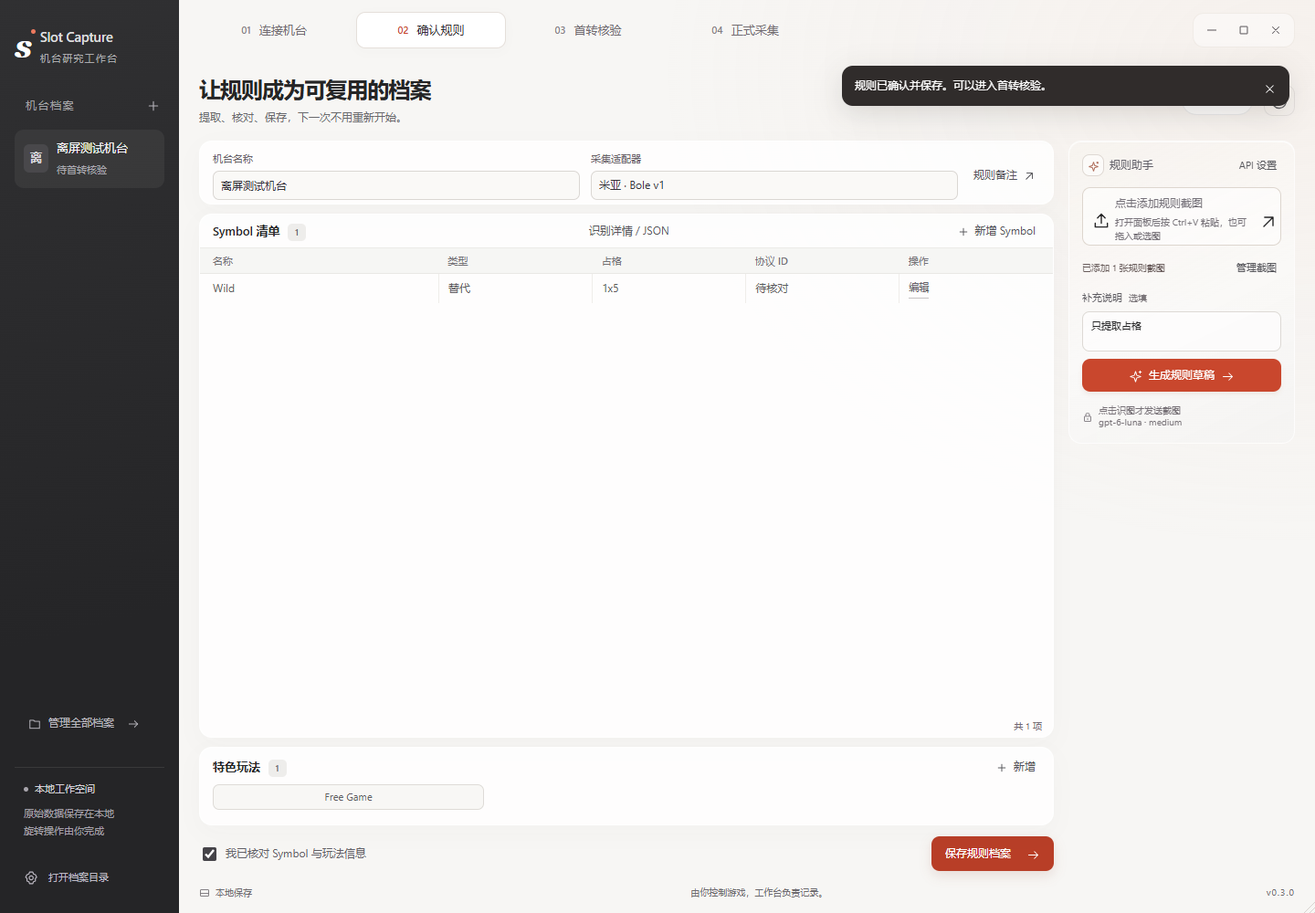
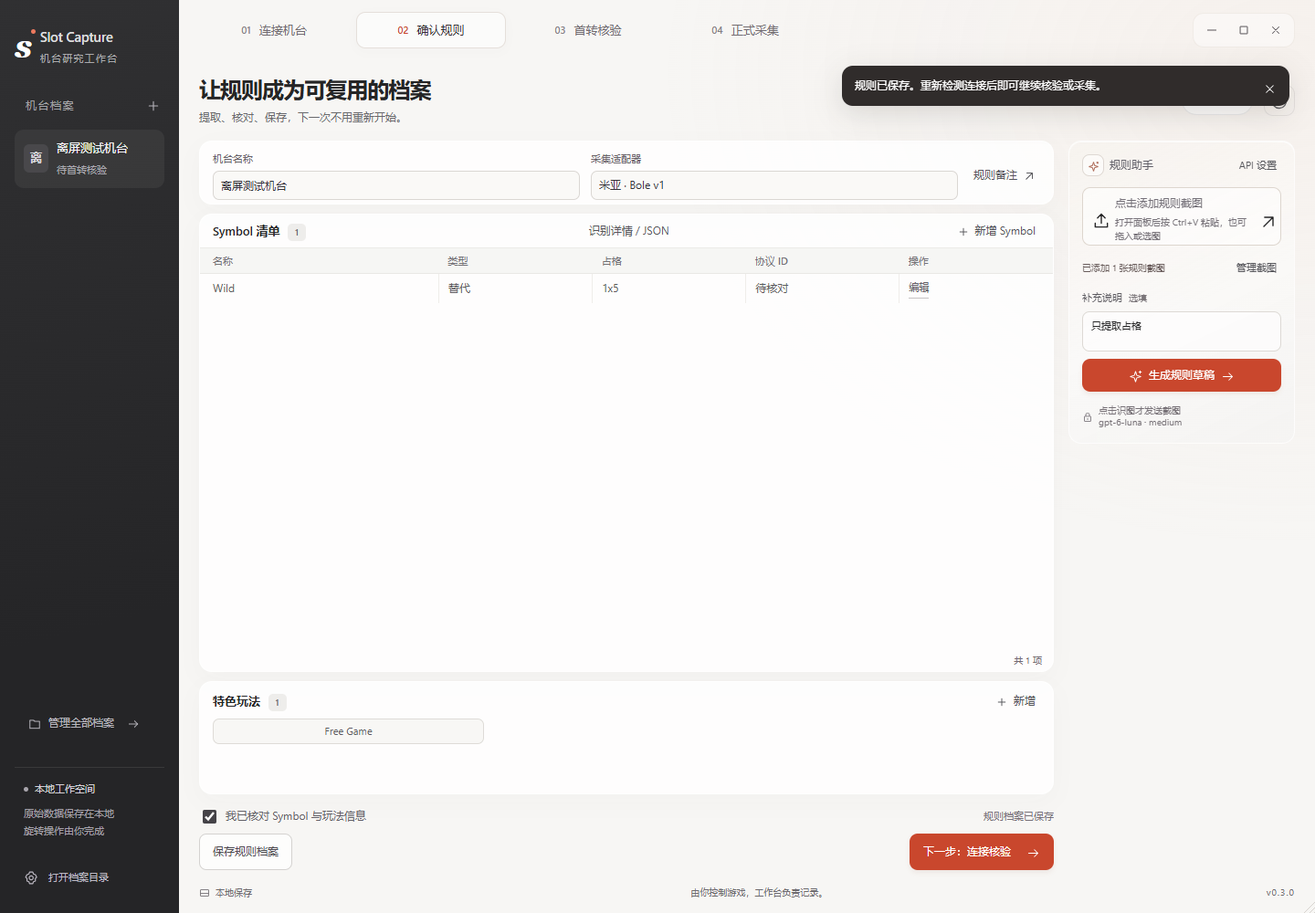
Persist rule image drafts and add clear save and next actions

diff --git a/src/slotcapture/webui/desktop.js b/src/slotcapture/webui/desktop.js
@@ -57,7 +57,7 @@ function blank(){return {id:crypto.randomUUID().replaceAll('-','').slice(0,16),n
 function modified(invalidate=true){state.dirty=true;if(invalidate){state.profile.first_spin_verified=false;$('#rules-confirmed').checked=false;}gates();}
 function gates(){
   const locked=state.busy||state.active;
-  for(const id of ['new-machine','machine','detect','manual-connect','save-rules','verify-start','capture-start','history','undo-delete','ai-generate','add-symbol','add-feature','profile-name','profile-adapter','profile-notes','rules-confirmed','spin-count','open-import','import-main','clear-images','use-images','pick-files','paste-images'])$('#'+id).disabled=locked;
+  for(const id of ['new-machine','machine','detect','manual-connect','save-rules','rules-next','verify-start','capture-start','history','undo-delete','ai-generate','add-symbol','add-feature','profile-name','profile-adapter','profile-notes','rules-confirmed','spin-count','open-import','import-main','clear-images','use-images','pick-files','paste-images'])$('#'+id).disabled=locked;
   $$('.machine-item,.table-action,.feature-list button,.archive-delete').forEach(b=>b.disabled=locked);
   $$('[id^="cap-"]').forEach(b=>b.readOnly=locked);
   $('#undo-delete').disabled=locked||!state.deleted;
@@ -73,6 +73,12 @@ function gates(){
   $('#capture-start').disabled=locked||!state.ready||state.dirty||!p?.first_spin_verified;
   $('#verify-start').disabled=locked||!state.ready||state.dirty||!p?.rules_confirmed||!p?.symbols?.length;
   $('#verified-shortcut').hidden=!p?.first_spin_verified||state.dirty;
+  const rulesNext=$('#rules-next');
+  rulesNext.disabled=locked||!$('#rules-confirmed').checked||!p?.symbols?.length;
+  rulesNext.querySelector('span').textContent=state.dirty?'保存并下一步':!state.ready?'下一步：连接核验':p?.first_spin_verified?'下一步：正式采集':'下一步：首转核验';
+  $('#rule-save-state').textContent=state.dirty?(p?._draft_pending?'截图草稿已自动保存，规则待确认保存':'有未保存修改'):'规则档案已保存';
+  if(!p?.symbols?.length)$('#rule-save-state').textContent=p?._draft_pending?'截图草稿已自动保存，待核对规则':!state.dirty&&state.machines.some(m=>m.id===p?.id)?'档案已保存，补齐规则后继续':'可先保存截图，补齐规则后继续';
+  $('#capture-storage').textContent=state.run?'原始记录已自动保存':'采集时自动保存';
   for(const id of ['vision-settings-open','vision-settings-save','vision-refresh-models','vision-base-url','vision-api-key','vision-selection','vision-effort'])$('#'+id).disabled=locked;
   $('#vision-model').disabled=locked||$('#vision-selection').value==='automatic';
   const next=$('#connection-next');let target='rules',label='下一步：确认规则';
@@ -120,10 +126,10 @@ function renderLibrary(){
   for(const [,p] of visible){
     const b=node('button',undefined,'machine-item'+(p.id===state.profile?.id?' selected':''));b.dataset.id=p.id;
     b.append(node('span',(p.name||'S').slice(0,1),'machine-square'));
-    const title=node('span',p.name);title.append(node('small',p.first_spin_verified?'首转已通过':'待首转核验'));b.append(title);
+    const title=node('span',p.name||'未命名机台');title.append(node('small',p._draft_pending?'有未确认草稿':p.first_spin_verified?'首转已通过':'待首转核验'));b.append(title);
     b.onclick=()=>chooseMachine(p.id);$('#machine-library').append(b);
   }
-  for(const p of state.machines){const option=node('option',p.name);option.value=p.id;$('#machine').append(option);}
+  for(const p of state.machines){const option=node('option',p.name||'未命名机台');option.value=p.id;$('#machine').append(option);}
   const option=node('option','新建机台档案…');option.value='';$('#machine').append(option);
   $('#machine').value=state.machines.some(p=>p.id===state.profile?.id)?state.profile.id:'';
   if(!state.machines.length)$('#machine-library').append(node('p','还没有档案，先新建一个。','library-empty'));
@@ -131,7 +137,7 @@ function renderLibrary(){
   renderArchive();gates();
 }
 async function loadProfile(p){
-  state.profile=structuredClone(p||blank());state.dirty=false;state.images=[];
+  state.profile=structuredClone(p||blank());state.dirty=!!state.profile._draft_pending;state.images=[];
   state.pages.symbols=0;state.pages.features=0;
   $('#profile-name').value=state.profile.name;$('#profile-adapter').value=state.profile.adapter;
   $('#profile-notes').value=state.profile.notes||'';$('#rules-confirmed').checked=!!state.profile.rules_confirmed;
@@ -151,7 +157,7 @@ function renderRules(){
   if(!symbols.length){const tr=node('tr'),td=node('td','暂无 Symbol。可以手动新增，也可以导入截图识别。','empty-row');td.colSpan=5;tr.append(td);$('#symbol-rows').append(tr);}
   $('#feature-list').replaceChildren();
   $('#feature-count').textContent=state.profile.features?.length||0;
-  for(const [i,f] of pageSlice('features',state.profile.features||[],3,'#feature-pager',renderRules)){const b=node('button',f.name);b.title=f.name+'\n'+(f.notes||'点击编辑');b.onclick=()=>editRow('features',i);$('#feature-list').append(b);}
+  for(const [i,f] of pageSlice('features',state.profile.features||[],6,'#feature-pager',renderRules)){const b=node('button',f.name);b.title=f.name+'\n'+(f.notes||'点击编辑');b.onclick=()=>editRow('features',i);$('#feature-list').append(b);}
   if(!state.profile.features?.length)$('#feature-list').append(node('p','尚未录入特色玩法','muted'));
   gates();
 }
@@ -181,7 +187,7 @@ function choose(title,description,items){
   let selected=null;for(const item of items){const b=node('button',item.label,'choice-button');b.onclick=()=>{selected=item.value;d.close();};$('#choice-list').append(b);}d.showModal();
   return new Promise(resolve=>d.addEventListener('close',()=>resolve(selected),{once:true}));
 }
-async function discard(){return !state.dirty||await confirmAction('当前档案有未保存修改。放弃这些修改并继续？');}
+async function discard(){return !state.dirty||await confirmAction(state.profile?._draft_pending?'截图草稿会保留；其他未保存修改可能丢失。继续切换？':'当前档案有未保存修改。放弃这些修改并继续？');}
 async function chooseMachine(id){
   if(state.active||state.busy){renderLibrary();return;}
   if(!await discard()){renderLibrary();return;}
@@ -305,7 +311,7 @@ async function startSession(purpose){
 }
 function renderImages(){
   const grid=$('#image-grid');grid.replaceChildren();
-  for(const item of state.images){const tile=node('div',undefined,'image-tile'),image=node('img');image.src=item.preview;image.alt=item.name;const remove=node('button','×');remove.setAttribute('aria-label','移除 '+item.name);remove.onclick=()=>{if(state.busy||state.active)return;state.images=state.images.filter(i=>i.path!==item.path);state.dirty=true;renderImages();};tile.append(image,node('span',item.name),remove);grid.append(tile);}
+  for(const item of state.images){const tile=node('div',undefined,'image-tile'),image=node('img');image.src=item.preview;image.alt=item.name;const remove=node('button','×');remove.setAttribute('aria-label','移除 '+item.name);remove.onclick=()=>task('保存截图草稿…',async()=>{state.images=state.images.filter(i=>i.path!==item.path);state.dirty=true;await persistImageDraft();message('截图草稿已保存。');});tile.append(image,node('span',item.name),remove);grid.append(tile);}
   $('#attachment-summary').hidden=!state.images.length;$('#attachment-summary').textContent=`已添加 ${state.images.length} 张规则截图`;
   $('#import-hint').textContent=`已添加 ${state.images.length} / 12 张。单张不超过 20 MiB，点击识图才发送。`;gates();
 }
@@ -313,7 +319,13 @@ async function mergeImages(paths){
   const previews=await api('preview_images',paths);const combined=[...state.images];
   for(const image of previews)if(!combined.some(i=>i.path===image.path||i.sha256&&i.sha256===image.sha256))combined.push(image);
   if(combined.length>12)throw Error('最多添加 12 张截图，请先移除多余图片。');
-  state.images=combined;state.dirty=true;renderImages();
+  state.images=combined;state.dirty=true;await persistImageDraft();
+}
+async function persistImageDraft(){
+  const p=await api('save_machine_draft',draft());
+  state.profile=p;state.dirty=true;
+  state.images=p.screenshots?.length?await api('preview_images',p.screenshots):[];
+  upsert(p);renderImages();
 }
 async function addFiles(list){
   const files=[...list];if(!files.length)return;
@@ -322,7 +334,7 @@ async function addFiles(list){
     const encoded=[];
     for(const f of files){if(f.size>20*1024*1024)throw Error('单张截图不能超过 20 MiB。');if(!['image/png','image/jpeg','image/webp'].includes(f.type))throw Error('仅支持 PNG、JPG、WebP 图片。');
       const base64=await new Promise((resolve,reject)=>{const r=new FileReader();r.onload=()=>resolve(String(r.result).split(',')[1]);r.onerror=()=>reject(Error('无法读取图片'));r.readAsDataURL(f);});encoded.push({name:f.name||'image.png',base64});}
-    const result=await api('import_images',encoded);await mergeImages(result.paths);message('截图已缓存本地，尚未发送给模型。');
+    const result=await api('import_images',encoded);await mergeImages(result.paths);message('截图草稿已自动保存，退出后可恢复；尚未发送给模型。');
   });
 }
 function openImport(){if(state.busy||state.active)return;$('#image-dialog').showModal();$('#drop-zone').focus();}
@@ -333,7 +345,7 @@ document.addEventListener('paste',e=>{if(!$('#image-dialog').open||state.busy||s
 for(const id of ['drop-zone']){const el=$('#'+id);el.ondragover=e=>{e.preventDefault();el.classList.add('drag-over');};el.ondragleave=()=>el.classList.remove('drag-over');el.ondrop=e=>{e.preventDefault();el.classList.remove('drag-over');if(state.active||state.busy)return;addFiles(e.dataTransfer.files);};}
 // Prevent WebView navigation if files are accidentally dropped outside the import panel.
 document.addEventListener('dragover',e=>e.preventDefault());document.addEventListener('drop',e=>e.preventDefault());
-$('#clear-images').onclick=()=>{state.images=[];state.dirty=true;renderImages();};$('#use-images').onclick=()=>$('#image-dialog').close();
+$('#clear-images').onclick=()=>task('保存截图草稿…',async()=>{state.images=[];state.dirty=true;await persistImageDraft();message('截图草稿列表已清空并保存。');});$('#use-images').onclick=()=>$('#image-dialog').close();
 $('#ai-generate').onclick=async()=>{
   if((state.profile.symbols.length||state.profile.features.length)&&!await confirmAction('生成的草稿会替换当前 Symbol 和玩法清单（保存前不会覆盖本地档案）。继续？'))return;
   await task('正在读取规则截图，识别可能需要一点时间…',async()=>{
@@ -350,10 +362,12 @@ $('#ai-generate').onclick=async()=>{
     const {name,symbols,features,notes,...details}=p;
     state.profile.rule_details=details;
     if(p.name)$('#profile-name').value=p.name;if(p.notes)$('#profile-notes').value=p.notes;
-    modified();renderRules();changeView('rules');message('规则草稿已填入。请核对名称、占格和玩法，再勾选确认并保存。');
+    modified();await persistImageDraft();renderRules();changeView('rules');message('识别草稿和截图已自动保存。请核对名称、占格和玩法，再勾选确认并保存正式规则。');
   });
 };
-$('#save-rules').onclick=()=>task('保存规则档案…',async()=>{const p=await api('save_machine',draft());upsert(p);await loadProfile(p);message(p.rules_confirmed?'规则已确认并保存。可以进入首转核验。':'草稿已保存，确认规则后再进入首转。');});
+async function saveCurrentRules(){const data=draft();data.name=data.name||'未命名机台';const p=await api('save_machine',data);upsert(p);await loadProfile(p);return p;}
+$('#save-rules').onclick=()=>task('保存规则档案…',async()=>{const p=await saveCurrentRules();message(p.rules_confirmed?'规则已确认并保存，可以继续下一步。':'规则及截图已保存，核对后勾选确认再继续。');});
+$('#rules-next').onclick=()=>task('保存规则并准备下一步…',async()=>{const p=await saveCurrentRules();const target=!state.ready?'connect':p.first_spin_verified?'capture':'verify';changeView(target);message(target==='connect'?'规则已保存。重新检测连接后即可继续核验或采集。':target==='verify'?'规则已保存。点击开始首转监听，再在游戏内手动转一次。':'规则已保存，可以设置本批次付费次数。');});
 $('#detect').onclick=()=>detect();$('#manual-connect').onclick=()=>task('按修正信息核验心跳…',async()=>{const p=draft();if(p.adapter!=='mia-bole-v1')throw Error('请先选择与当前机台匹配的采集适配器。');await connectWith(p.capture);});
 $('#verify-start').onclick=()=>startSession('first_spin');$('#capture-start').onclick=()=>startSession('sampling');
 $('#stop-capture').onclick=async()=>{if(!await confirmAction('请先在游戏内停止新增付费旋转。\n工作台只停止监听并等待奖励链，不会替你停止游戏。确认请求收尾？'))return;await task('请求本任务收尾…',async()=>{await api('stop');message('已请求收尾，请完成剩余奖励，不要新增付费旋转。','action');});};

diff --git a/src/slotcapture/webui/index.html b/src/slotcapture/webui/index.html
@@ -59,7 +59,7 @@
           <div class="card profile-editor rules-profile"><label>机台名称<input id="profile-name" placeholder="输入机台名称" maxlength="120"></label><label>采集适配器<select id="profile-adapter" title="适配器决定协议和结算校验规则，不能通过改名套用其他机台。"><option value="unadapted">待适配 · 仅建立档案</option><option value="mia-bole-v1">米亚 · Bole v1</option></select></label><button class="text-button" id="edit-notes">规则备注<i data-icon="arrow-up-right"></i></button></div>
           <div class="card table-card"><div class="section-title"><div><h3>Symbol 清单 <span class="count-badge" id="symbol-count">0</span></h3></div><button class="text-button" id="rule-json">识别详情 / JSON</button><button class="text-button" id="add-symbol"><i data-icon="plus"></i>新增 Symbol</button></div><div class="table-scroll"><table><thead><tr><th>名称</th><th>类型</th><th>占格</th><th>协议 ID</th><th class="last-column">操作</th></tr></thead><tbody id="symbol-rows"></tbody></table></div><div id="symbol-pager" class="pager"></div></div>
           <div class="card feature-card"><div class="section-title"><h3>特色玩法 <span id="feature-count" class="count-badge">0</span></h3><button class="text-button" id="add-feature"><i data-icon="plus"></i>新增</button></div><div class="feature-list" id="feature-list"></div><div id="feature-pager" class="pager"></div></div>
-          <div class="save-bar"><label class="checkbox"><input type="checkbox" id="rules-confirmed">我已核对 Symbol 与玩法信息</label><button class="primary-button" id="save-rules">保存规则档案<i data-icon="arrow-right"></i></button></div>
+          <div class="save-bar"><div class="rule-confirmation"><label class="checkbox"><input type="checkbox" id="rules-confirmed">我已核对 Symbol 与玩法信息</label><span id="rule-save-state">可先保存截图，补齐规则后继续</span></div><div class="rule-actions"><button class="secondary-button" id="save-rules">保存规则档案</button><button class="primary-button" id="rules-next" disabled><span>下一步：首转核验</span><i data-icon="arrow-right"></i></button></div></div>
         </section>
 
         <section class="view" id="view-verify" aria-labelledby="verify-heading">
@@ -70,7 +70,7 @@
           <div class="card capture-setup"><div><span class="eyebrow">新建批次 / CAPTURE</span><h2 id="capture-heading">让每一转都有记录</h2></div><div class="batch-form"><label for="spin-count">付费旋转目标</label><div class="batch-input"><input id="spin-count" type="number" min="1" max="1000000" value="100"><span>次</span></div><button class="primary-button" id="capture-start"><i data-icon="play"></i>开始采集</button></div><p class="setup-hint" id="sampling-gate">完成连接、规则确认与首转核验后，即可开始。</p></div>
           <div class="metric-grid"><div class="card metric"><span>付费旋转 / 目标</span><strong class="metric-accent"><span id="paid-count">0</span><small> / <span id="target-label">100</span></small></strong><div class="progress-track"><span id="paid-progress"></span></div></div><div class="card metric"><span>本批次 Bet</span><strong id="bet-value">—</strong><small>从首个有效结果自动读取</small></div><div class="card metric"><span>免费旋转</span><strong><span id="free-count">0</span><small> 次</small></strong><small>不计入付费目标</small></div></div>
           <div class="card chart-card"><div class="section-title"><div><h3>本批次返奖</h3><p id="return-caption">尾链完成前为暂计值，不能当长期 RTP。</p></div><span class="subtle-pill" id="run-state">尚未开始</span></div><div class="return-total" id="return-total">—</div><div class="audit-strip"><span>付费下注 <b id="wager-total">—</b></span><span>待结算奖励 <b id="pending-total">—</b></span><span>审计问题 <b id="issue-total">—</b></span></div><p class="setup-hint">逐盘账本、奖励链与原始结果保存在本地批次目录。</p></div>
-          <div class="card events-card"><div class="section-title"><h3>采集事件</h3><div class="event-actions"><button class="text-button" id="show-events">全部事件</button><button class="text-button" id="export">导出记录<i data-icon="arrow-up-right"></i></button></div></div><div id="events"><div class="event-empty">尚未开始采集</div></div><div class="event-controls"><button class="text-button" id="records">打开本地记录</button><button class="secondary-button" id="stop-capture" disabled>停止监听并收尾</button></div></div>
+          <div class="card events-card"><div class="section-title"><h3>采集事件 <span id="capture-storage">采集时自动保存</span></h3><div class="event-actions"><button class="text-button" id="show-events">全部事件</button><button class="text-button" id="export" title="原始记录已自动保存；此处只额外复制分析用文件">另存分析包<i data-icon="arrow-up-right"></i></button></div></div><div id="events"><div class="event-empty">尚未开始采集</div></div><div class="event-controls"><button class="text-button" id="records">打开自动保存目录</button><button class="secondary-button" id="stop-capture" disabled>停止监听并收尾</button></div></div>
         </section>
       </main>
 

diff --git a/src/slotcapture/webui/layout.css b/src/slotcapture/webui/layout.css
@@ -79,3 +79,13 @@ body.desktop-app{height:100dvh;min-height:0;min-width:960px;overflow:hidden}
 .desktop-app .drop-mini{display:flex;flex-direction:row;text-align:left;justify-content:flex-start;gap:9px;height:64px;padding:9px 10px;border:1px solid #ddd6ce;background:#ffffff8c;border-radius:9px}
 .desktop-app .drop-mini>i{width:16px;height:16px;flex:none}.desktop-app .drop-mini>span{min-width:0}.desktop-app .drop-mini strong{display:block;font-size:12px;line-height:1.6}.desktop-app .drop-mini small{display:block;margin-top:4px;font-size:10px;line-height:1.5;white-space:normal}.desktop-app .drop-mini>i:last-child{margin-left:auto;width:13px;height:13px}
 .desktop-app #vision-settings-open{margin-left:auto;font-size:11px;white-space:nowrap}.desktop-app .api-fields{margin:0;padding:0}.desktop-app #vision-model-label{display:block;max-width:200px;overflow:hidden;text-overflow:ellipsis;white-space:nowrap}
+
+/* Six common features fit without a page turn; save and next are always in the footer. */
+.desktop-app #view-rules{grid-template-rows:70px minmax(0,1fr) 124px 76px}
+.desktop-app .feature-card{grid-template-rows:22px 64px;gap:8px;padding-block:10px}
+.desktop-app .feature-list{grid-template-rows:repeat(2,28px);align-content:start}
+.desktop-app .save-bar{display:grid;grid-template-columns:minmax(0,1fr);grid-template-rows:22px 40px;gap:8px;align-content:center;align-items:stretch;justify-content:stretch}
+.rule-confirmation{display:flex;gap:12px;align-items:center;min-width:0}.rule-confirmation .checkbox{flex:none}.rule-confirmation #rule-save-state{margin-left:auto;overflow:hidden;text-overflow:ellipsis;white-space:nowrap;font-size:11px;color:#777078}
+.rule-actions{display:flex;justify-content:space-between;gap:12px}.desktop-app .rule-actions button{height:40px;min-height:40px}
+#capture-storage{font-size:10px;font-weight:400;color:#777078;margin-left:8px}
+@media(max-height:700px){.desktop-app #view-rules{grid-template-rows:64px minmax(0,1fr) 116px 72px}.desktop-app .feature-card{padding-block:6px}.rule-confirmation #rule-save-state{font-size:10px}}

diff --git a/src/slotcapture/desktop.py b/src/slotcapture/desktop.py
@@ -10,7 +10,7 @@ import threading
 from . import __version__
 from .common import read, write, digest, TERMINAL
 from .gui import invoke, event_summary
-from .workflow import default_store, connection_ready
+from .workflow import default_store, connection_ready, profile_path, archive_images
 
 
 def response(method):
@@ -43,6 +43,21 @@ class DesktopAPI:
         self._session.update(run=self._run,connection=self._connection,diagnostic=self._diagnostic)
         write(self._store/'desktop-session.json',self._session)
 
+    def _draft_path(self,identity):
+        profile_path(self._store,identity)
+        return self._store/'machine-drafts'/(identity+'.json')
+
+    def _with_draft(self,profile):
+        path=self._draft_path(profile['id'])
+        return dict(read(path),_draft_pending=True,first_spin_verified=False) if path.exists() else profile
+
+    def _library(self):
+        machines={p['id']:self._with_draft(p) for p in self._cli('machine-list')['machines']}
+        for path in (self._store/'machine-drafts').glob('*.json'):
+            if path.stem not in machines:
+                p=read(path);machines[path.stem]=self._with_draft(p)
+        return list(machines.values())
+
     def _idle(self):
         if self._run and (Path(self._run)/'plan.json').exists():
             s=self._invoke(['status','--run',self._run])
@@ -51,11 +66,13 @@ class DesktopAPI:
 
     def _save(self,profile):
         profile=dict(profile)
+        profile.pop('_draft_pending',None)
         profile.setdefault('id',uuid.uuid4().hex[:16])
         path=self._store/'drafts'/(uuid.uuid4().hex+'.json')
         path.parent.mkdir(exist_ok=True);write(path,profile)
         try:result=self._cli('machine-save','--input',str(path))
         finally:path.unlink(missing_ok=True)
+        self._draft_path(result['id']).unlink(missing_ok=True)
         self._session['selected_id']=result['id'];self._persist()
         return result
 
@@ -72,7 +89,7 @@ class DesktopAPI:
 
     @response
     def bootstrap(self):
-        machines=self._cli('machine-list')['machines']
+        machines=self._library()
         selected=next((p for p in machines if p['id']==self._session.get('selected_id')),machines[0] if machines else None)
         ready=bool(selected and self._connection and connection_ready(selected,self._connection))
         if not ready:self._connection=None
@@ -83,7 +100,10 @@ class DesktopAPI:
     @response
     def select_machine(self,identity):
         self._idle()
-        result=self._cli('machine-show','--id',identity) if identity else None
+        result=None
+        if identity:
+            draft=self._draft_path(identity)
+            result=self._with_draft(read(draft)) if draft.exists() else self._cli('machine-show','--id',identity)
         self._run=None;self._connection=None;self._session['selected_id']=identity;self._persist()
         return result
 
@@ -91,6 +111,22 @@ class DesktopAPI:
     def save_machine(self,profile):
         self._idle()
         return self._save(profile)
+
+    @response
+    def save_machine_draft(self,profile):
+        """Persist incomplete onboarding without changing approved rules or verification."""
+        self._idle()
+        p=dict(profile);identity=p.get('id')
+        path=self._draft_path(identity)
+        images=p.get('screenshots',[])
+        if not isinstance(images,list) or len(images)>12:raise ValueError('最多保存12张规则截图')
+        for image in images:
+            if not Path(image).resolve().is_relative_to(self._store):raise ValueError('请先导入截图到本地')
+        p['screenshots']=archive_images(self._store,identity,images) if images else []
+        p.pop('verification',None);p.pop('first_spin_verified',None);p.pop('_draft_pending',None)
+        path.parent.mkdir(parents=True,exist_ok=True);write(path,p)
+        self._session['selected_id']=identity;self._persist()
+        return dict(p,_draft_pending=True,first_spin_verified=False)
 
     @response
     def discover(self,profile,device=None,adb=None):
@@ -146,7 +182,15 @@ class DesktopAPI:
 
     @response
     def delete_machine(self,identity):
-        self._idle();result=self._cli('machine-delete','--id',identity)
+        self._idle();draft=self._draft_path(identity)
+        if not profile_path(self._store,identity).exists() and draft.exists():
+            p=read(draft);token=uuid.uuid4().hex
+            result=dict(id=identity,name=p.get('name') or '未命名机台',deleted=token,kind='draft',history_preserved=True)
+        else:result=self._cli('machine-delete','--id',identity)
+        if draft.exists():
+            saved=self._store/'trash'/'machine-drafts'/identity/(result['deleted']+'.json')
+            saved.parent.mkdir(parents=True,exist_ok=True);draft.rename(saved)
+            result['draft_archived_path']=str(saved)
         self._last_deleted=result
         if self._session.get('selected_id')==identity:
             self._session['selected_id']=None;self._connection=None;self._run=None;self._persist()
@@ -156,7 +200,14 @@ class DesktopAPI:
     def restore_machine(self):
         self._idle()
         if not self._last_deleted:raise ValueError('本次会话没有可撤销的删除')
-        p=self._cli('machine-restore','--id',self._last_deleted['id'],'--deleted',self._last_deleted['deleted'])
+        deleted=self._last_deleted
+        draft=self._draft_path(deleted['id'])
+        if draft.exists():raise ValueError('已有同ID草稿，不能覆盖恢复')
+        if deleted.get('kind')=='draft':p=read(deleted['draft_archived_path'])
+        else:p=self._cli('machine-restore','--id',deleted['id'],'--deleted',deleted['deleted'])
+        if deleted.get('draft_archived_path'):
+            draft.parent.mkdir(parents=True,exist_ok=True);Path(deleted['draft_archived_path']).rename(draft)
+            p=self._with_draft(p)
         self._last_deleted=None;self._run=None;self._connection=None;self._session['selected_id']=p['id'];self._persist()
         return p
 

diff --git a/design/check_desktop.py b/design/check_desktop.py
@@ -14,12 +14,13 @@ const m=window.__mock;
 const wrap=f=>async(...args)=>{try{return {ok:true,data:await f(...args)}}catch(e){return {ok:false,error:{message:e.message}}}};
 function call(name,args){m.calls.push({name,args:structuredClone(args)})}
 function profile(p){return {...structuredClone(p),first_spin_verified:!!p.first_spin_verified}}
-function save(p){p=profile(p);const i=m.machines.findIndex(x=>x.id===p.id);if(i<0)m.machines.push(p);else m.machines[i]=p;m.selected=p;return p}
+function save(p){p=profile(p);delete p._draft_pending;const i=m.machines.findIndex(x=>x.id===p.id);if(i<0)m.machines.push(p);else m.machines[i]=p;m.selected=p;return p}
 function start(p,purpose,paid){save(p);m.run='X:/test-only/'+purpose+'-'+m.calls.length;m.purpose=purpose;m.events=[];
  m.status={state:purpose==='connection'?'CHECKING_CONNECTION':'WAITING_FOR_SPIN',worker_alive:true,live:true,checked_utc:new Date().toISOString(),paid:0,free:0,target_paid:paid,expected_return:0,paid_wager:0,pending_rewards:0,issue_count:0};return {profile:p,run:m.run,purpose}}
 window.pywebview={api:{
  bootstrap:wrap(()=>({version:'0.3.0',machines:m.machines,selected:m.selected,connection_ready:m.ready,run:m.run})),
  save_machine:wrap(p=>{call('save_machine',[p]);if(!p.name)throw Error('请填写机台名称');return save(p)}),
+ save_machine_draft:wrap(p=>{call('save_machine_draft',[p]);return {...p,_draft_pending:true,first_spin_verified:false}}),
  select_machine:wrap(id=>{call('select_machine',[id]);m.ready=false;m.run=null;m.selected=m.machines.find(p=>p.id===id)||null;return m.selected}),
  discover:wrap((p,device,adb)=>{call('discover',[p,device,adb]);
    if(m.stage==='choose_device'&&!device)return {stage:'choose_device',message:'多个在线模拟器，请选择。',devices:[{model:'离屏测试设备',device:'test-5554',adb:'X:/mock/adb.exe'},{model:'另一测试设备',device:'test-5556',adb:'X:/mock/adb.exe'}]};
@@ -103,6 +104,8 @@ def main():
                 page.locator('#file-input').set_input_files(dict(name=filename,mimeType='image/png',buffer=tiny_png()))
                 page.wait_for_function('!state.busy && state.images.length===1')
             assert page.locator('.image-tile').count()==1
+            assert page.evaluate('__mock.calls.some(c=>c.name==="save_machine_draft")')
+            assert not page.evaluate('__mock.calls.some(c=>c.name==="recognize")')
             page.locator('#paste-images').click();page.wait_for_function('!state.busy')
             assert page.locator('.image-tile').count()==1
             page.screenshot(path=str(output/'desktop-import.png'),full_page=True,animations='disabled')
@@ -110,15 +113,20 @@ def main():
             page.locator('#ai-generate').click();page.locator('#confirm-yes').click();page.wait_for_function('__mock.calls.some(c=>c.name==="recognize") && !state.busy')
             assert page.evaluate('__mock.calls.filter(x=>x.name==="recognize").at(-1).args[1]')=='只提取占格'
             assert not page.locator('#rules-confirmed').is_checked()
+            assert page.locator('#rules-next').is_disabled()
             assert page.locator('#symbol-rows').inner_text().startswith('Wild')
             page.locator('#rule-json').click()
             assert 'payline_count' in page.locator('#text-body').inner_text()
             assert 'capture_checklist' in page.locator('#text-body').inner_text()
             page.locator('#text-dialog .icon-button').click()
-            page.locator('#rules-confirmed').check();page.locator('#save-rules').click();page.wait_for_function('!state.busy')
+            page.locator('#rules-confirmed').check();page.locator('#rules-next').click();page.wait_for_function('!state.busy')
             assert page.evaluate('state.profile.rule_details.base_game.payline_count')==40
+            assert page.locator('#view-connect').is_visible()
+            assert not page.evaluate('__mock.calls.some(c=>c.name==="start_session")')
+            page.locator('[data-view=rules]').click()
             page.screenshot(path=str(output/'desktop-rules.png'),full_page=True,animations='disabled')
             checks.append('images: dedup, explicit paste and recognition, notes forwarded, manual confirmation reset')
+            checks.append('rule footer: save and next stay visible; screenshots persist before OCR; confirmed next saves without starting capture')
             # Failure is not called online; choose only if multiple candidates actually exist.
             page.locator('[data-view=connect]').click();page.evaluate('__mock.stage="heartbeat_missing"')
             page.locator('#detect').click();page.wait_for_function('!state.busy')
@@ -183,6 +191,9 @@ def main():
             page.wait_for_function('__mock.calls.filter(c=>c.name==="window_command").length===4')
             assert not page.evaluate('__mock.calls.some(c=>c.name==="stop")')
             checks.append('window controls: explicit minimize/maximize/restore/close bridge; close never stops capture')
+            page.evaluate('state.profile.features=Array.from({length:6},(_,i)=>({name:"玩法 "+i}));changeView("rules")')
+            assert page.locator('#feature-list button').count()==6
+            assert page.locator('#feature-pager button').count()==0
             page.evaluate('''__mock.run=null;state.run=null;state.status=null;
                 state.machines=Array.from({length:25},(_,i)=>({...state.profile,id:'test-'+i,name:'离屏长档案测试 '+i}));
                 state.profile.symbols=Array.from({length:40},(_,i)=>({name:'Symbol '+i,role:'普通',size:'1x1'}));

diff --git a/tests/test_desktop.py b/tests/test_desktop.py
@@ -94,6 +94,33 @@ class DesktopTests(unittest.TestCase):
         self.assertFalse(self.api.import_images([dict(name='bad.png',base64='aaaa')])['ok'])
         self.assertFalse(self.api.preview_images([str(self.store.parent/'escape.png')])['ok'])
 
+    def test_unrecognized_images_restore_as_draft_and_never_overwrite_approved_profile(self):
+        self.data(self.api.save_machine(self.profile))
+        original=(self.store/'machines'/'mia.json').read_bytes()
+        b=io.BytesIO();Image.new('RGB',(12,12),'white').save(b,format='PNG')
+        paths=self.data(self.api.import_images([dict(name='rule.png',base64=base64.b64encode(b.getvalue()).decode())]))['paths']
+        p=dict(self.profile,name='尚未确认的新名字',screenshots=paths)
+        saved=self.data(self.api.save_machine_draft(p))
+        self.assertTrue(saved['_draft_pending'])
+        self.assertEqual((self.store/'machines'/'mia.json').read_bytes(),original)
+        fresh=DesktopAPI(self.store,self.command)
+        restored=self.data(fresh.bootstrap())['selected']
+        self.assertEqual(restored['name'],'尚未确认的新名字');self.assertTrue(restored['_draft_pending'])
+        self.assertTrue(Path(restored['screenshots'][0]).is_file())
+        self.assertIn('rule-images',restored['screenshots'][0])
+        approved=self.data(fresh.save_machine(restored))
+        self.assertNotIn('_draft_pending',approved)
+        self.assertFalse((self.store/'machine-drafts'/'mia.json').exists())
+
+    def test_new_draft_can_be_deleted_and_restored_without_ocr_or_formal_profile(self):
+        draft=dict(self.profile,name='',symbols=[],features=[],rules_confirmed=False,screenshots=[])
+        self.data(self.api.save_machine_draft(draft))
+        self.assertEqual(len(self.data(self.api.bootstrap())['machines']),1)
+        self.assertEqual(self.data(self.api.delete_machine('mia'))['kind'],'draft')
+        self.assertEqual(self.data(self.api.bootstrap())['machines'],[])
+        restored=self.data(self.api.restore_machine())
+        self.assertTrue(restored['_draft_pending']);self.assertEqual(restored['symbols'],[])
+
     def test_vision_only_runs_on_explicit_request_and_forwards_notes(self):
         save_profile(self.store,self.profile)
         with patch('slotcapture.vision_api.recognize',return_value=dict(draft={},requires_confirmation=True)) as mock:

diff --git a/docs/desktop-v0.3.md b/docs/desktop-v0.3.md
@@ -22,6 +22,10 @@
 
 批次与原始数据仍保存在本地。旧版本档案库原位复用，不迁移或覆盖。删除仅把档案移入回收区，可撤销，历史采集和截图保留。工作台重开后恢复上次批次，也可通过右上角历史入口选择其他批次。
 
+导入、粘贴、移除截图以及识图成功时，自动保存独立的未确认草稿，重启后恢复图片和已识别内容，不覆盖已确认的规则或首转证据。底部常驻“保存规则档案”和“下一步”：未识图或未勾确认也能保存图片和档案；确认后下一步会保存当前规则，并前往连接核验/首转/正式采集。特色玩法区展示两行，每页最多6项。
+
+采集原始包、逐转结果、账本与审计均自动保存在批次目录，无需额外导出。“打开自动保存目录”查看原始文件；“另存分析包”只额外复制一份便于传递的分析材料，不是完成采集或保留数据的必要步骤。
+
 停止监听不等于停止游戏。关闭工作台后后台监听继续，重新打开可查看。正式看板不混入首转次数；返奖在最终审计前标为暂计值。
 
 ## 运行与验证边界
